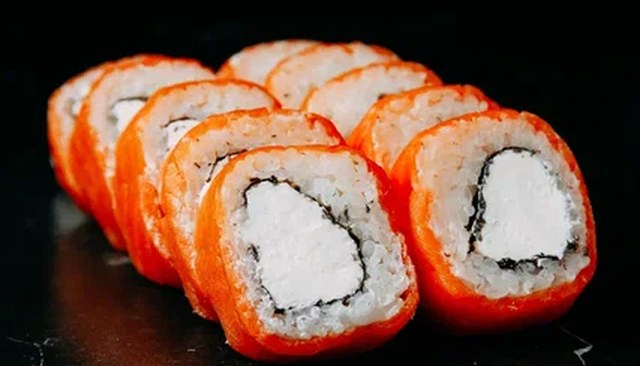
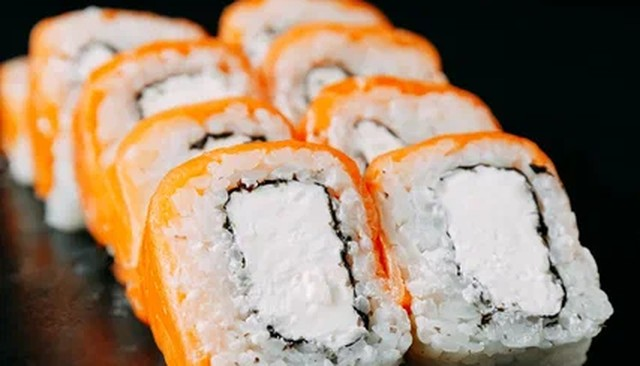
Add files via upload

diff --git a/index.html b/index.html
@@ -84,6 +84,7 @@ input,textarea,select{font-size:16px;padding:12px}
 #toast{bottom:84px;max-width:90%;text-align:center}
 }
 
+.promo{max-width:1100px;margin:0 auto 14px;padding:0 16px}.pb{position:relative;display:block;width:100%;max-width:430px;margin:0 auto;border:0;padding:0;border-radius:20px;overflow:hidden;cursor:pointer;background:#111;box-shadow:0 10px 30px #e0302055;font:inherit;text-align:left;transition:transform .15s}.pb:active{transform:scale(.985)}.pb img{display:block;width:100%;height:auto}.pb:after{content:"";position:absolute;top:0;left:-60%;width:35%;height:100%;background:linear-gradient(100deg,transparent,#ffffff3d,transparent);transform:skewX(-20deg);animation:shine 3.6s infinite;pointer-events:none}@keyframes shine{0%{left:-60%}55%,100%{left:130%}}.pb .tag{position:absolute;top:12px;right:12px;background:#e03020;color:#fff;font-weight:800;font-size:13px;padding:5px 11px;border-radius:99px;box-shadow:0 3px 10px #0006;animation:pulse 1.8s infinite}@keyframes pulse{0%,100%{transform:scale(1)}50%{transform:scale(1.07)}}.pb .cta{display:flex;align-items:center;justify-content:center;gap:8px;background:linear-gradient(180deg,#ec3a2b,#c9261a);color:#fff;font-weight:800;font-size:17px;padding:15px 12px}.pb .cta small{font-weight:600;opacity:.9;font-size:13px}@media (max-width:640px){.pb{max-width:82%}.pb .cta{font-size:15px;padding:11px 10px}.pb .cta small{font-size:12px}.pb .tag{font-size:12px;top:9px;right:9px;padding:4px 9px}}.pnote{text-align:center;color:var(--mut);font-size:13px;margin:8px 0 0}.fly{position:fixed;z-index:50;border-radius:14px;object-fit:cover;pointer-events:none;box-shadow:0 8px 24px #0006}
 </style>
 </head>
 <body>
@@ -99,6 +100,8 @@ input,textarea,select{font-size:16px;padding:12px}
   <p>Роллы, сеты, пицца, WOK и горячие блюда. Шахтинск, ежедневно с 11:00 до 23:30.</p>
   <div class="badge">🚚 По Шахтинску доставка бесплатно от 6 000 ₸</div><br><button class="btn" id="toMenu" type="button">Смотреть меню</button>
 </section>
+
+<section class="promo"><button class="pb" id="promo" type="button" aria-label="Добавить Сет ноября в корзину"><img id="promoImg" src="images/set-noyabrya.jpg" alt="Сет ноября: сяке терияки, жареный с курицей, мини пепперони, фри"><span class="cta" id="promoCta">＋ Добавить в корзину <small>4 500 ₸</small></span></button><p class="pnote">Нажми на баннер, и сет сразу окажется в корзине</p></section>
 
 <section id="menu">
   <div class="tabs" id="tabs"></div>
@@ -151,7 +154,7 @@ var CFG={
   currency:"₸",
   whatsapp:"77083666705"
 };
-var PH={"Удон с курицей": "images/udon-s-kuritsey.jpg", "Соба с курицей": "images/soba-s-kuritsey.jpg", "Соба с морепродуктами": "images/soba-s-moreproduktami.jpg", "Удон с говядиной": "images/udon-s-govyadinoy.jpg", "Удон с морепродуктами": "images/udon-s-moreproduktami.jpg", "Курица карри с рисом": "images/kuritsa-karri-s-risom.jpg", "Куриное филе с соусом дор-блю и картофельными дольками": "images/kurinoe-file-s-sousom-dor-blyu-i-kartofelnymi-dolk.jpg", "Жареный картофель с грибами и сливками": "images/zharenyy-kartofel-s-gribami-i-slivkami.jpg", "Греческий": "images/grecheskiy.jpg", "Цезарь с креветками": "images/tsezar-s-krevetkami.jpg", "Цезарь с курицей": "images/tsezar-s-kuritsey.jpg", "Цезарь с лососем": "images/tsezar-s-lososem.jpg", "Лапша с курицей": "images/lapsha-s-kuritsey.jpg", "Том-ям с морепродуктами": "images/tom-yam-s-moreproduktami.jpg", "Аризона": "images/arizona.jpg", "Жареный с курицей": "images/zharenyy-s-kuritsey.jpg", "Жареный с лососем": "images/zharenyy-s-lososem.jpg", "Фила темпура": "images/fila-tempura.jpg", "Жареный с угрём": "images/zharenyy-s-ugrem.jpg", "Курица с томатами": "images/kuritsa-s-tomatami.jpg", "Маргарита": "images/margarita.jpg", "Пицца с морепродуктами": "images/pitstsa-s-moreproduktami.jpg", "По-фински": "images/po-finski.jpg", "Пепперони": "images/pepperoni.jpg", "Ветчина с грибами": "images/vetchina-s-gribami.jpg", "Гавайская": "images/gavayskaya.jpg", "Жульен": "images/zhulen.jpg", "Охотничья с корнишонами": "images/ohotnichya-s-kornishonami.jpg", "Палермо": "images/palermo.jpg", "Пять сыров": "images/pyat-syrov.jpg", "Мексиканская": "images/meksikanskaya.jpg", "Комбо 3 пиццы": "images/kombo-3-pitstsy.jpg", "Студенческая": "images/studencheskaya.jpg", "Цыплёнок BBQ": "images/tsyplenok-bbq.jpg", "Цезарь пицца": "images/tsezar-pitstsa.jpg", "Сырный цыплёнок": "images/syrnyy-tsyplenok.jpg", "Калифорния с крабом": "images/kaliforniya-s-krabom.jpg", "Калифорния с лососем": "images/kaliforniya-s-lososem.jpg", "Калифорния с угрём": "images/kaliforniya-s-ugrem.jpg", "Ролл Краб": "images/roll-krab.jpg", "Жареный спайси": "images/zharenyy-spaysi.jpg", "Лёгкий с лососем": "images/lyogkiy-s-lososem.jpg", "Сяке терияки": "images/syake-teriyaki.jpg", "Запечённый с угрём": "images/zapechennyy-s-ugrem.jpg", "Гала": "images/gala.jpg", "Кани": "images/kani.jpg", "Тортилья с лососем": "images/tortilya-s-lososem.jpg", "Филадельфия икура": "images/filadelfiya-ikura.jpg", "Филадельфия классик": "images/filadelfiya-klassik.jpg", "Филадельфия с огурцом": "images/filadelfiya-s-ogurtsom.jpg", "Ролл Чука": "images/roll-chuka.jpg", "Ролл Яссай": "images/roll-yassay.jpg", "Лёгкий с огурцом": "images/lyogkiy-s-ogurtsom.jpg", "Лёгкий с угрём": "images/lyogkiy-s-ugrem.jpg", "Сет Калифорния 40 шт": "images/set-kaliforniya-40.jpg", "Сет Лёгкий 40 шт": "images/set-lyogkiy-40.jpg", "Сет Люкс 40 шт": "images/set-lyuks-40.jpg", "На двоих №2": "images/na-dvoih-2.jpg", "На одного 20 шт": "images/na-odnogo-20.jpg", "Сет Популярный 40 шт": "images/set-populyarnyy-40.jpg", "Самурай 40 шт": "images/samuray-40.jpg", "Филадельфия 40 шт": "images/filadelfiya-40.jpg", "Фирменный 40 шт": "images/firmennyy-40.jpg", "Великан 120 шт": "images/velikan-120.jpg", "Жареный 40 шт": "images/zharenyy-40.jpg", "Сет Забирай 55 шт": "images/set-zabiray-55.jpg", "Ассорти 60 шт": "images/assorti-60.jpg", "Мажор 60 шт": "images/mazhor-60.jpg", "Фетучини Альфредо": "images/fetuchini-alfredo.jpg", "Бефстроганов с картофелем фри": "images/befstroganov-s-kartofelem-fri.jpg", "Wok с говядиной": "images/wok-s-govyadinoy.jpg", "Wok с курицей": "images/wok-s-kuritsey.jpg", "Говядина по-корейски с рисом": "images/govyadina-po-koreyski-s-risom.jpg", "Жареный картофель с охотничьими колбасками": "images/zharenyy-kartofel-s-ohotnichimi-kolbaskami.jpg", "Рамён с лососем": "images/ramyon-s-lososem.jpg", "Соба с говядиной": "images/soba-s-govyadinoy.jpg", "Сырные палочки со сметаной": "images/syrnye-palochki.jpg", "Наггетсы с соусом спайси": "images/naggetsy-spaysi.jpg", "Гренки чесночные": "images/grenki-chesnochnye.jpg", "Стрипсы 3 шт": "images/strips-3.jpg", "Стрипсы 5 шт": "images/strips-5.jpg", "Стрипсы 14 шт": "images/strips-14.jpg", "Стрипсы 24 шт": "images/strips-24.jpg", "Крыло 200 г": "images/krylo-200.jpg", "Крыло 500 г": "images/krylo-500.jpg", "Крыло 1 кг": "images/krylo-1kg.jpg", "Чикен ролл": "images/chiken-roll.jpg", "Картофель фри": "images/kartofel-fri.jpg", "Картофельные дольки": "images/kartofelnye-dolki.jpg", "Луковые кольца": "images/lukovye-koltsa.jpg", "Комбо 1": "images/kombo-1.jpg", "Комбо 2": "images/kombo-2.jpg", "Комбо 3": "images/kombo-3.jpg", "Салат с курицей и ананасами": "images/salat-s-kuritsey-i-ananasami.jpg", "Pepsi 1 л": "images/pepsi.jpg", "Mirinda 1 л": "images/mirinda.jpg", "Сок DaDa в ассортименте 1 л": "images/sok-dada.jpg", "Детский сок DaDa": "images/detskiy-sok.jpg"};
+var PH={"Удон с курицей": "images/udon-s-kuritsey.jpg", "Соба с курицей": "images/soba-s-kuritsey.jpg", "Соба с морепродуктами": "images/soba-s-moreproduktami.jpg", "Удон с говядиной": "images/udon-s-govyadinoy.jpg", "Удон с морепродуктами": "images/udon-s-moreproduktami.jpg", "Курица карри с рисом": "images/kuritsa-karri-s-risom.jpg", "Куриное филе с соусом дор-блю и картофельными дольками": "images/kurinoe-file-s-sousom-dor-blyu-i-kartofelnymi-dolk.jpg", "Жареный картофель с грибами и сливками": "images/zharenyy-kartofel-s-gribami-i-slivkami.jpg", "Греческий": "images/grecheskiy.jpg", "Цезарь с креветками": "images/tsezar-s-krevetkami.jpg", "Цезарь с курицей": "images/tsezar-s-kuritsey.jpg", "Цезарь с лососем": "images/tsezar-s-lososem.jpg", "Лапша с курицей": "images/lapsha-s-kuritsey.jpg", "Том-ям с морепродуктами": "images/tom-yam-s-moreproduktami.jpg", "Аризона": "images/arizona.jpg", "Жареный с курицей": "images/zharenyy-s-kuritsey.jpg", "Жареный с лососем": "images/zharenyy-s-lososem.jpg", "Фила темпура": "images/fila-tempura.jpg", "Жареный с угрём": "images/zharenyy-s-ugrem.jpg", "Курица с томатами": "images/kuritsa-s-tomatami.jpg", "Маргарита": "images/margarita.jpg", "Пицца с морепродуктами": "images/pitstsa-s-moreproduktami.jpg", "По-фински": "images/po-finski.jpg", "Пепперони": "images/pepperoni.jpg", "Ветчина с грибами": "images/vetchina-s-gribami.jpg", "Гавайская": "images/gavayskaya.jpg", "Жульен": "images/zhulen.jpg", "Охотничья с корнишонами": "images/ohotnichya-s-kornishonami.jpg", "Палермо": "images/palermo.jpg", "Пять сыров": "images/pyat-syrov.jpg", "Мексиканская": "images/meksikanskaya.jpg", "Комбо 3 пиццы": "images/kombo-3-pitstsy.jpg", "Студенческая": "images/studencheskaya.jpg", "Цыплёнок BBQ": "images/tsyplenok-bbq.jpg", "Цезарь пицца": "images/tsezar-pitstsa.jpg", "Сырный цыплёнок": "images/syrnyy-tsyplenok.jpg", "Калифорния с крабом": "images/kaliforniya-s-krabom.jpg", "Калифорния с лососем": "images/kaliforniya-s-lososem.jpg", "Калифорния с угрём": "images/kaliforniya-s-ugrem.jpg", "Ролл Краб": "images/roll-krab.jpg", "Жареный спайси": "images/zharenyy-spaysi.jpg", "Лёгкий с лососем": "images/lyogkiy-s-lososem.jpg", "Сяке терияки": "images/syake-teriyaki.jpg", "Запечённый с угрём": "images/zapechennyy-s-ugrem.jpg", "Гала": "images/gala.jpg", "Кани": "images/kani.jpg", "Тортилья с лососем": "images/tortilya-s-lososem.jpg", "Филадельфия икура": "images/filadelfiya-ikura.jpg", "Филадельфия классик": "images/filadelfiya-klassik.jpg", "Филадельфия с огурцом": "images/filadelfiya-s-ogurtsom.jpg", "Ролл Чука": "images/roll-chuka.jpg", "Ролл Яссай": "images/roll-yassay.jpg", "Лёгкий с огурцом": "images/lyogkiy-s-ogurtsom.jpg", "Лёгкий с угрём": "images/lyogkiy-s-ugrem.jpg", "Сет Калифорния 40 шт": "images/set-kaliforniya-40.jpg", "Сет Лёгкий 40 шт": "images/set-lyogkiy-40.jpg", "Сет Люкс 40 шт": "images/set-lyuks-40.jpg", "На двоих №2": "images/na-dvoih-2.jpg", "На одного 20 шт": "images/na-odnogo-20.jpg", "Сет Популярный 40 шт": "images/set-populyarnyy-40.jpg", "Самурай 40 шт": "images/samuray-40.jpg", "Филадельфия 40 шт": "images/filadelfiya-40.jpg", "Фирменный 40 шт": "images/firmennyy-40.jpg", "Великан 120 шт": "images/velikan-120.jpg", "Жареный 40 шт": "images/zharenyy-40.jpg", "Сет Забирай 55 шт": "images/set-zabiray-55.jpg", "Ассорти 60 шт": "images/assorti-60.jpg", "Мажор 60 шт": "images/mazhor-60.jpg", "Фетучини Альфредо": "images/fetuchini-alfredo.jpg", "Бефстроганов с картофелем фри": "images/befstroganov-s-kartofelem-fri.jpg", "Wok с говядиной": "images/wok-s-govyadinoy.jpg", "Wok с курицей": "images/wok-s-kuritsey.jpg", "Говядина по-корейски с рисом": "images/govyadina-po-koreyski-s-risom.jpg", "Жареный картофель с охотничьими колбасками": "images/zharenyy-kartofel-s-ohotnichimi-kolbaskami.jpg", "Рамён с лососем": "images/ramyon-s-lososem.jpg", "Соба с говядиной": "images/soba-s-govyadinoy.jpg", "Сырные палочки со сметаной": "images/syrnye-palochki.jpg", "Наггетсы с соусом спайси": "images/naggetsy-spaysi.jpg", "Гренки чесночные": "images/grenki-chesnochnye.jpg", "Стрипсы 3 шт": "images/strips-3.jpg", "Стрипсы 5 шт": "images/strips-5.jpg", "Стрипсы 14 шт": "images/strips-14.jpg", "Стрипсы 24 шт": "images/strips-24.jpg", "Крыло 200 г": "images/krylo-200.jpg", "Крыло 500 г": "images/krylo-500.jpg", "Крыло 1 кг": "images/krylo-1kg.jpg", "Чикен ролл": "images/chiken-roll.jpg", "Картофель фри": "images/kartofel-fri.jpg", "Картофельные дольки": "images/kartofelnye-dolki.jpg", "Луковые кольца": "images/lukovye-koltsa.jpg", "Комбо 1": "images/kombo-1.jpg", "Комбо 2": "images/kombo-2.jpg", "Комбо 3": "images/kombo-3.jpg", "Салат с курицей и ананасами": "images/salat-s-kuritsey-i-ananasami.jpg", "Pepsi 1 л": "images/pepsi.jpg", "Mirinda 1 л": "images/mirinda.jpg", "Сок DaDa в ассортименте 1 л": "images/sok-dada.jpg", "Детский сок DaDa": "images/detskiy-sok.jpg", "Сет ноября": "images/set-noyabrya.jpg", "Бонито с крабом": "images/bonito-s-krabom.jpg", "Бонито с лососем": "images/bonito-s-lososem.jpg", "Московский": "images/moskovskiy.jpg", "Канада": "images/kanada.jpg", "Токио": "images/tokio.jpg", "Запечённый с креветками": "images/zapechennyy-s-krevetkami.jpg", "Запечённый с лососем": "images/zapechennyy-s-lososem.jpg", "Гункан с лососем": "images/gunkan-s-lososem.jpg", "Гункан с угрём": "images/gunkan-s-ugrem.jpg", "Техас": "images/tehas.jpg", "Банзай дайкон": "images/banzay-daykon.jpg", "Филадельфия Люкс": "images/filadelfiya-lyuks.jpg", "Ролл Киото": "images/roll-kioto.jpg", "Ролл Эби Темпура": "images/roll-ebi-tempura.jpg", "На двоих №1": "images/na-dvoih-1.jpg", "Донер стандарт": "images/doner.jpg", "Донер мини": "images/doner.jpg", "Салат с хрустящими баклажанами": "images/salat-baklazhany.jpg", "Рамён с курицей": "images/ramyon-s-kuritsey.jpg"};
 var RAW=[
 ["Роллы","🍣",`Гала|2905|крем чиз, нори, огурцы, копчёный лосось, рис
 Сяке терияки|1500
@@ -187,7 +190,6 @@ var RAW=[
 Запечённый с креветками|4200|нори, креветки, сырный для шапок, рис, терияки
 Запечённый с лососем|3500|лосось, нори, рис, сырный для шапок, терияки
 Запечённый с угрём|3600|угорь, нори, сырный для шапок, рис, терияки
-Запечённый Цезарь|3000
 Тортилья с лососем|3355|тортилья, капуста, крем чиз, болгарский перец, огурцы, помидоры, лосось
 Гункан с лососем|850|лосось, рис, сырный для шапок, нори
 Гункан с угрём|910|угорь, сырный для шапок, рис, нори
@@ -294,7 +296,8 @@ Wok с курицей|2210|баклажан, кунжут, чёрный пере
 ["Напитки","🥤",`Pepsi 1 л|1200
 Mirinda 1 л|1200
 Сок DaDa в ассортименте 1 л|1500
-Детский сок DaDa|550`]
+Детский сок DaDa|550`],
+["Акция","🔥",`Сет ноября|4500|Сяке терияки, жареный с курицей, мини пепперони, фри|6865`]
 ];
 var MENU=RAW.map(function(r){return {c:r[0],e:r[1],items:r[2].split("\n").map(function(l){var p=l.split("|");return [p[0],p[2]||"",+p[1],+p[3]||0,PH[p[0]]||""]})}});
 var cart={},cat=0,$=function(i){return document.getElementById(i)};
@@ -307,8 +310,8 @@ $("callTop").href=$("phone").href="tel:"+CFG.phone;
 $("phone").textContent=CFG.phoneShow;$("phone2").href="tel:"+CFG.phone2;$("phone2").textContent=CFG.phone2Show;$("addr2").textContent=CFG.address;$("hours").textContent=CFG.hours;$("deliv").innerHTML=ZONES.map(function(z){return '<div class="zr"><span>'+z[0]+'<br><small style="color:var(--mut)">бесплатно от '+fmt(z[2])+'</small></span><b>'+fmt(z[1])+'</b></div>'}).join("")+'<div class="sub">Сумма заказа без учёта доставки</div>';
 $("dsub").textContent="от "+fmt(Math.min.apply(null,ZONES.map(function(z){return z[1]})))+" · бесплатно от "+fmt(Math.min.apply(null,ZONES.map(function(z){return z[2]})));
 
-function tabs(){var ord=MENU.map(function(m,i){return i}),di=MENU.map(function(m){return m.c}).indexOf("Напитки"),fi=MENU.map(function(m){return m.c}).indexOf("Фастфуд");if(di>-1&&fi>-1){ord.splice(di,1);ord.splice(ord.indexOf(fi)+1,0,di)}$("tabs").innerHTML=ord.map(function(i){var m=MENU[i];return '<button class="tab'+(i==cat?' on':'')+'" data-i="'+i+'">'+m.e+' '+m.c+'</button>'}).join("")}
-function grid(){var m=MENU[cat];$("grid").className="grid"+(m.c.indexOf("Пицца")===0?" pz":(m.c==="Закуски"||m.c==="Фастфуд")?" pz":(m.c==="Сеты"||m.c==="Комбо")?" st":m.c==="Напитки"?" dr":"");$("grid").innerHTML=m.items.map(function(it,i){var id=cat+"-"+i;
+function tabs(){var ord=MENU.map(function(m,i){return i}),di=MENU.map(function(m){return m.c}).indexOf("Напитки"),fi=MENU.map(function(m){return m.c}).indexOf("Фастфуд");if(di>-1&&fi>-1){ord.splice(di,1);ord.splice(ord.indexOf(fi)+1,0,di)}ord=ord.filter(function(i){return MENU[i].c!=="Акция"});$("tabs").innerHTML=ord.map(function(i){var m=MENU[i];return '<button class="tab'+(i==cat?' on':'')+'" data-i="'+i+'">'+m.e+' '+m.c+'</button>'}).join("")}
+function grid(){var m=MENU[cat];$("grid").className="grid"+(m.c.indexOf("Пицца")===0?" pz":(m.c==="Закуски"||m.c==="Фастфуд")?" pz":(m.c==="Сеты"||m.c==="Комбо")?" st":m.c==="Напитки"?" dr":m.c==="Акция"?" st":"");$("grid").innerHTML=m.items.map(function(it,i){var id=cat+"-"+i;
  return '<div class="item'+(it[4]?'':' np')+(it[1]?' has" data-d="'+id:'')+'"><div class="ph">'+(it[4]?'<img src="'+it[4]+'" alt="'+it[0].replace(/"/g,"")+'" loading="lazy">':m.e)+'</div><div class="ib"><h3>'+it[0]+'</h3><small>'+it[1]+'</small>'+(it[1]?'<span class="more">Состав ›</span>':'')+'<div class="row"><span class="price">'+(it[3]?'<span class="old">'+fmt(it[3])+'</span>':'')+fmt(it[2])+'</span><button class="btn" data-add="'+id+'">В корзину</button></div></div></div>'}).join("")}
 function find(id){var p=id.split("-");var it=MENU[p[0]].items[p[1]];return {n:it[0],p:it[2]}}
 function render(){
@@ -316,10 +319,14 @@ function render(){
  var sum=0,n=0;
  $("lines").innerHTML=ids.length?ids.map(function(k){var it=find(k),q=cart[k];sum+=it.p*q;n+=q;
   return '<div class="ci"><span>'+it.n+'<br><small style="color:var(--mut)">'+fmt(it.p)+'</small></span><span class="q"><button data-m="'+k+'">−</button><b>'+q+'</b><button data-p="'+k+'">+</button></span><b>'+fmt(it.p*q)+'</b></div>'}).join(""):'<p style="color:var(--mut)">Корзина пуста. Добавьте что-нибудь из меню 🙂</p>';
- var zn=ZONES[+$("zone").value]||ZONES[0],FR=zn[2];var dv=($("type").value=="pickup"||!n||sum>=FR)?0:zn[1];$("sum").textContent=fmt(sum+dv);$("dline").textContent=!n?"":$("type").value=="pickup"?"Самовывоз — бесплатно":(sum>=FR?"Доставка: бесплатно 🎉":"Доставка: "+fmt(dv)+" · добавьте ещё "+fmt(FR-sum)+" до бесплатной доставки ("+zn[0]+")");$("cnt").textContent=n;$("fbn").textContent=n;$("fbs").textContent=fmt(sum+dv);$("fb").classList.toggle("has",n>0);$("ups").innerHTML=n?upsHtml():"";save();return {ids:ids,sum:sum,dv:dv};
+ var zn=ZONES[+$("zone").value]||ZONES[0],FR=zn[2];var dv=($("type").value=="pickup"||!n||sum>=FR)?0:zn[1];$("sum").textContent=fmt(sum+dv);$("dline").textContent=!n?"":$("type").value=="pickup"?"Самовывоз — бесплатно":(sum>=FR?"Доставка: бесплатно 🎉":"Доставка: "+fmt(dv)+" · добавьте ещё "+fmt(FR-sum)+" до бесплатной доставки ("+zn[0]+")");$("cnt").textContent=n;$("fbn").textContent=n;$("fbs").textContent=fmt(sum+dv);$("fb").classList.toggle("has",n>0);$("ups").innerHTML=n?upsHtml():"";updPromo();save();return {ids:ids,sum:sum,dv:dv};
 }
 var UPS=["Pepsi 1 л","Mirinda 1 л","Сок DaDa в ассортименте 1 л","Детский сок DaDa","Наггетсы с соусом спайси","Стрипсы 3 шт","Сырные палочки со сметаной","Картофель фри","Луковые кольца","Гренки чесночные","Картофельные дольки"];
 function upsHtml(){var o=[];UPS.forEach(function(n){for(var c=0;c<MENU.length;c++)for(var i=0;i<MENU[c].items.length;i++)if(MENU[c].items[i][0]===n){var it=MENU[c].items[i],id=c+"-"+i,q=cart[id]||0;o.push('<div class="uc"><div class="uh">'+(it[4]?'<img src="'+it[4]+'" alt="" loading="lazy">':MENU[c].e)+'</div><span>'+it[0]+'</span><button data-add="'+id+'">'+(q?'В корзине: '+q+' · ':'+ ')+fmt(it[2])+'</button></div>');return}});return o.length?'<h4>Добавьте к заказу</h4><div class="ur">'+o.join("")+'</div>':""}
+function promoId(){for(var c=0;c<MENU.length;c++)if(MENU[c].c==="Акция")return c+"-0";return null}
+function updPromo(){var id=promoId(),q=id?(cart[id]||0):0,el=$("promoCta");if(el)el.innerHTML=q?'✓ В корзине: '+q+' <small>нажми, чтобы добавить ещё</small>':'＋ Добавить в корзину <small>4 500 ₸</small>'}
+function fly(){try{var im=$("promoImg"),r=im.getBoundingClientRect(),t=($("cartBtn")).getBoundingClientRect(),f=document.createElement("img");f.src=im.src;f.className="fly";f.style.left=r.left+"px";f.style.top=r.top+"px";f.style.width=r.width+"px";f.style.height=r.height+"px";document.body.appendChild(f);var a=f.animate([{transform:"translate(0,0) scale(1)",opacity:1},{transform:"translate("+(t.left+t.width/2-r.left-r.width/2)+"px,"+(t.top+t.height/2-r.top-r.height/2)+"px) scale(.06)",opacity:.35}],{duration:650,easing:"cubic-bezier(.5,0,.8,.4)"});a.onfinish=function(){f.remove();var cb=$("cartBtn");cb.animate([{transform:"scale(1)"},{transform:"scale(1.25)"},{transform:"scale(1)"}],{duration:300})}}catch(e){}}
+$("promo").onclick=function(){var id=promoId();if(!id)return;cart[id]=(cart[id]||0)+1;render();fly();toast("Сет ноября в корзине 🍂")};
 function open(v){$("cart").classList.toggle("on",v);$("ov").classList.toggle("on",v)}
 
 document.addEventListener("click",function(e){var t=e.target;var cd=t.closest&&t.closest('.item[data-d]');if(cd&&!t.dataset.add){showD(cd.dataset.d);return}
